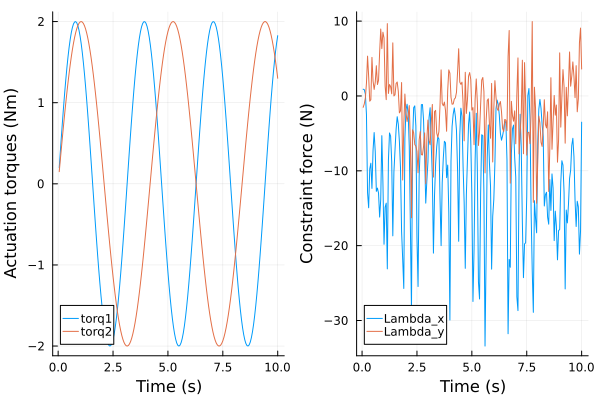
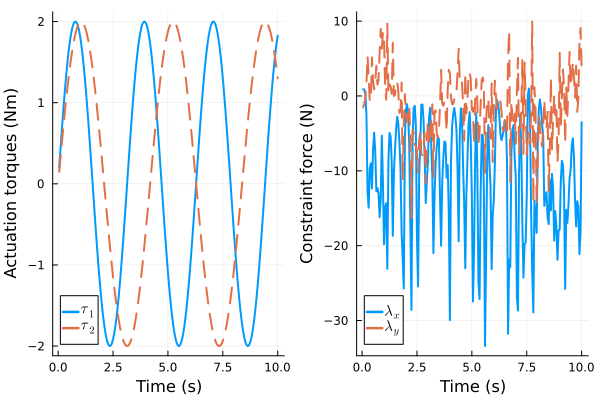
improved plots

diff --git a/README.md b/README.md
@@ -30,9 +30,13 @@ Then, it simulates the constrained linkage system in response to chosen motor to
 
 <img src="./plots/constrained_system.gif" alt="constrained_motion_gif" width="480"/>
 
-We can plot the input troques and constraint forces:
+We can plot the system response:
 
-<img src="./plots/system_forces.png" alt="constrained_motion_gif" width="480"/>
+<img src="./plots/system_response.png" alt="response_plot" width="480"/>
+
+We can plot the input torques and constraint forces:
+
+<img src="./plots/system_forces.png" alt="forcing_plot" width="480"/>
 
 
 ## Next steps...
